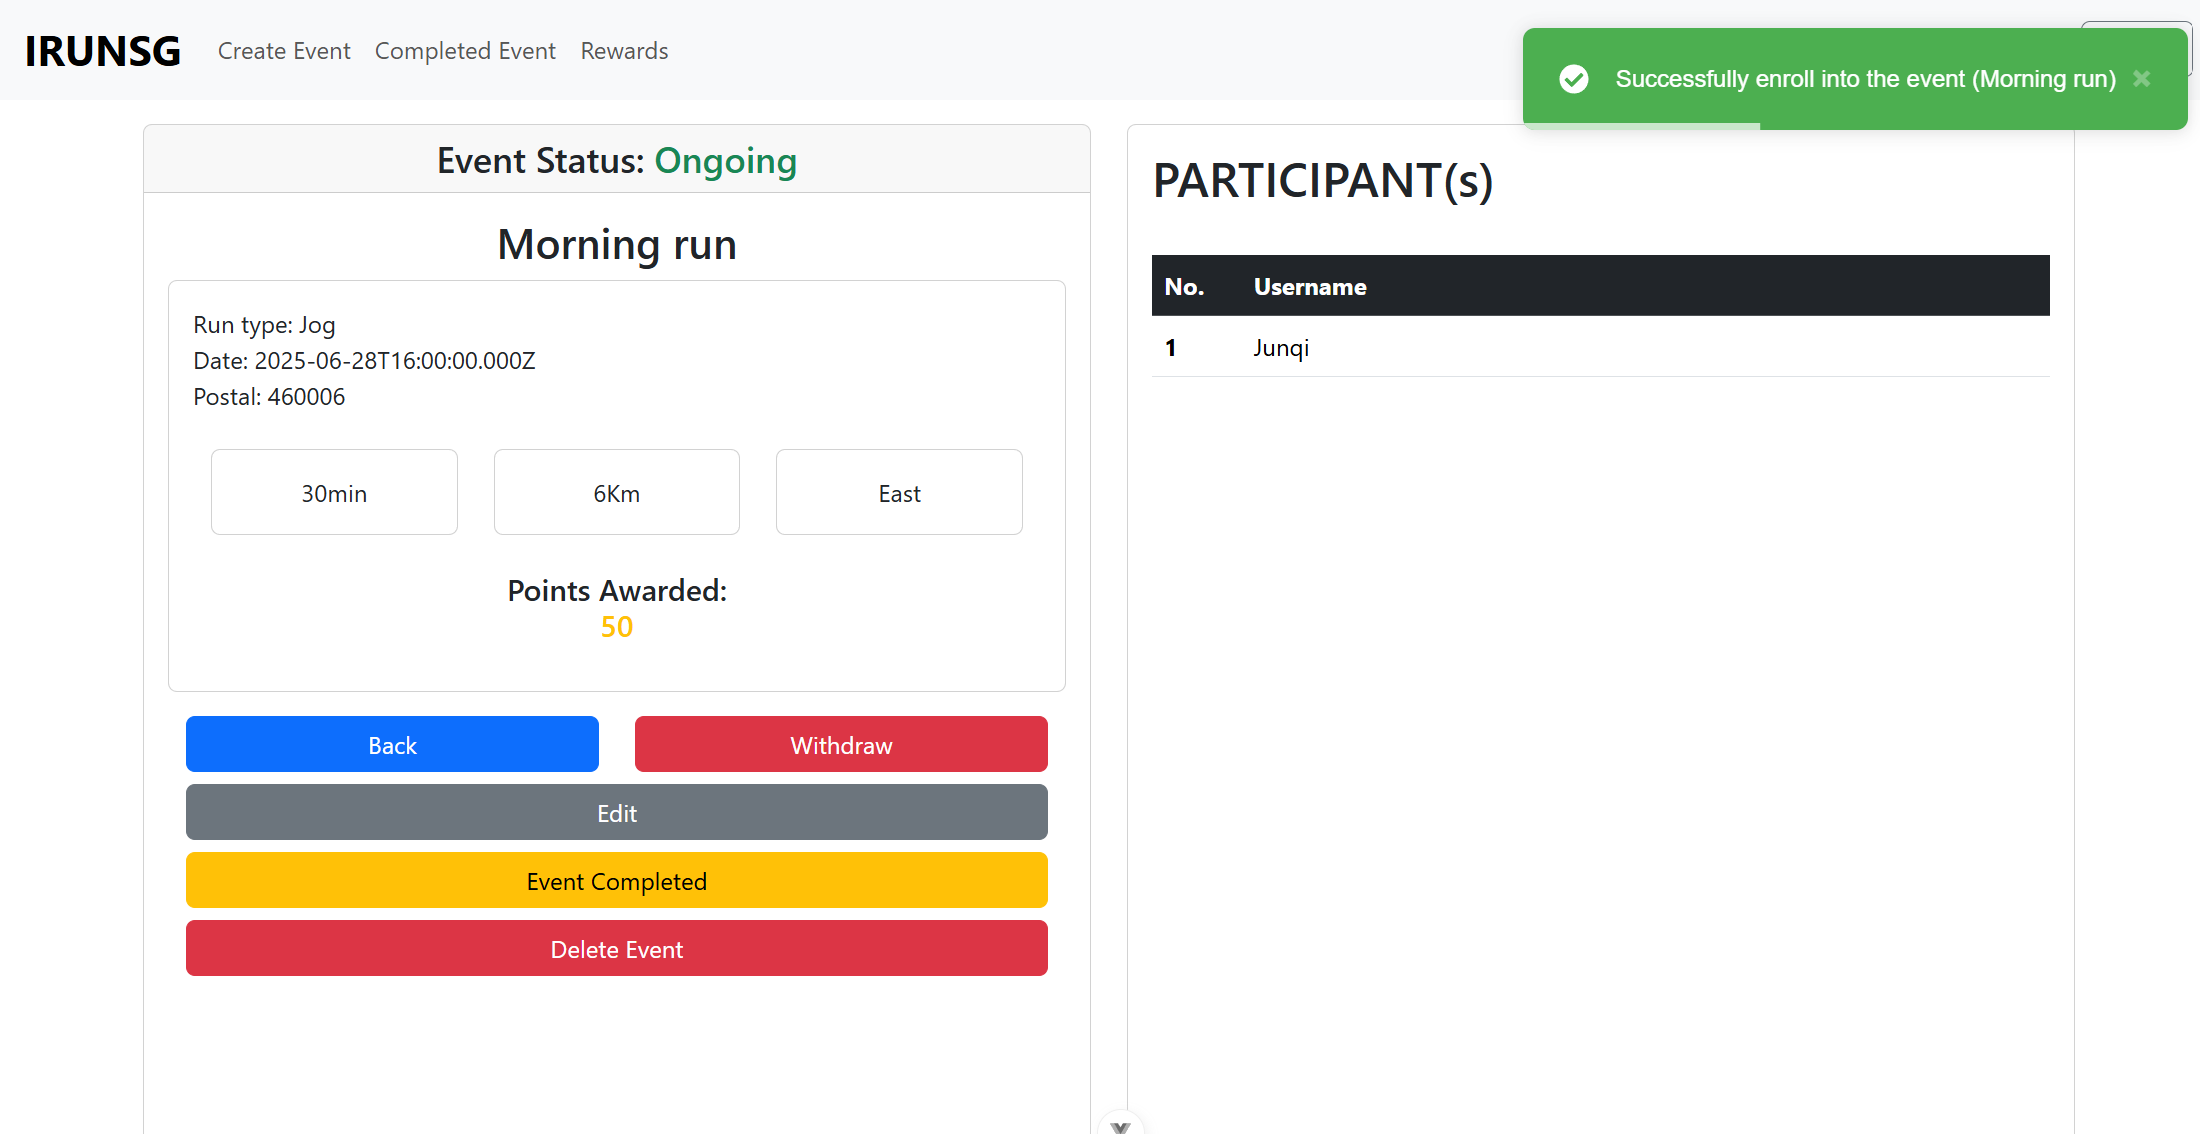
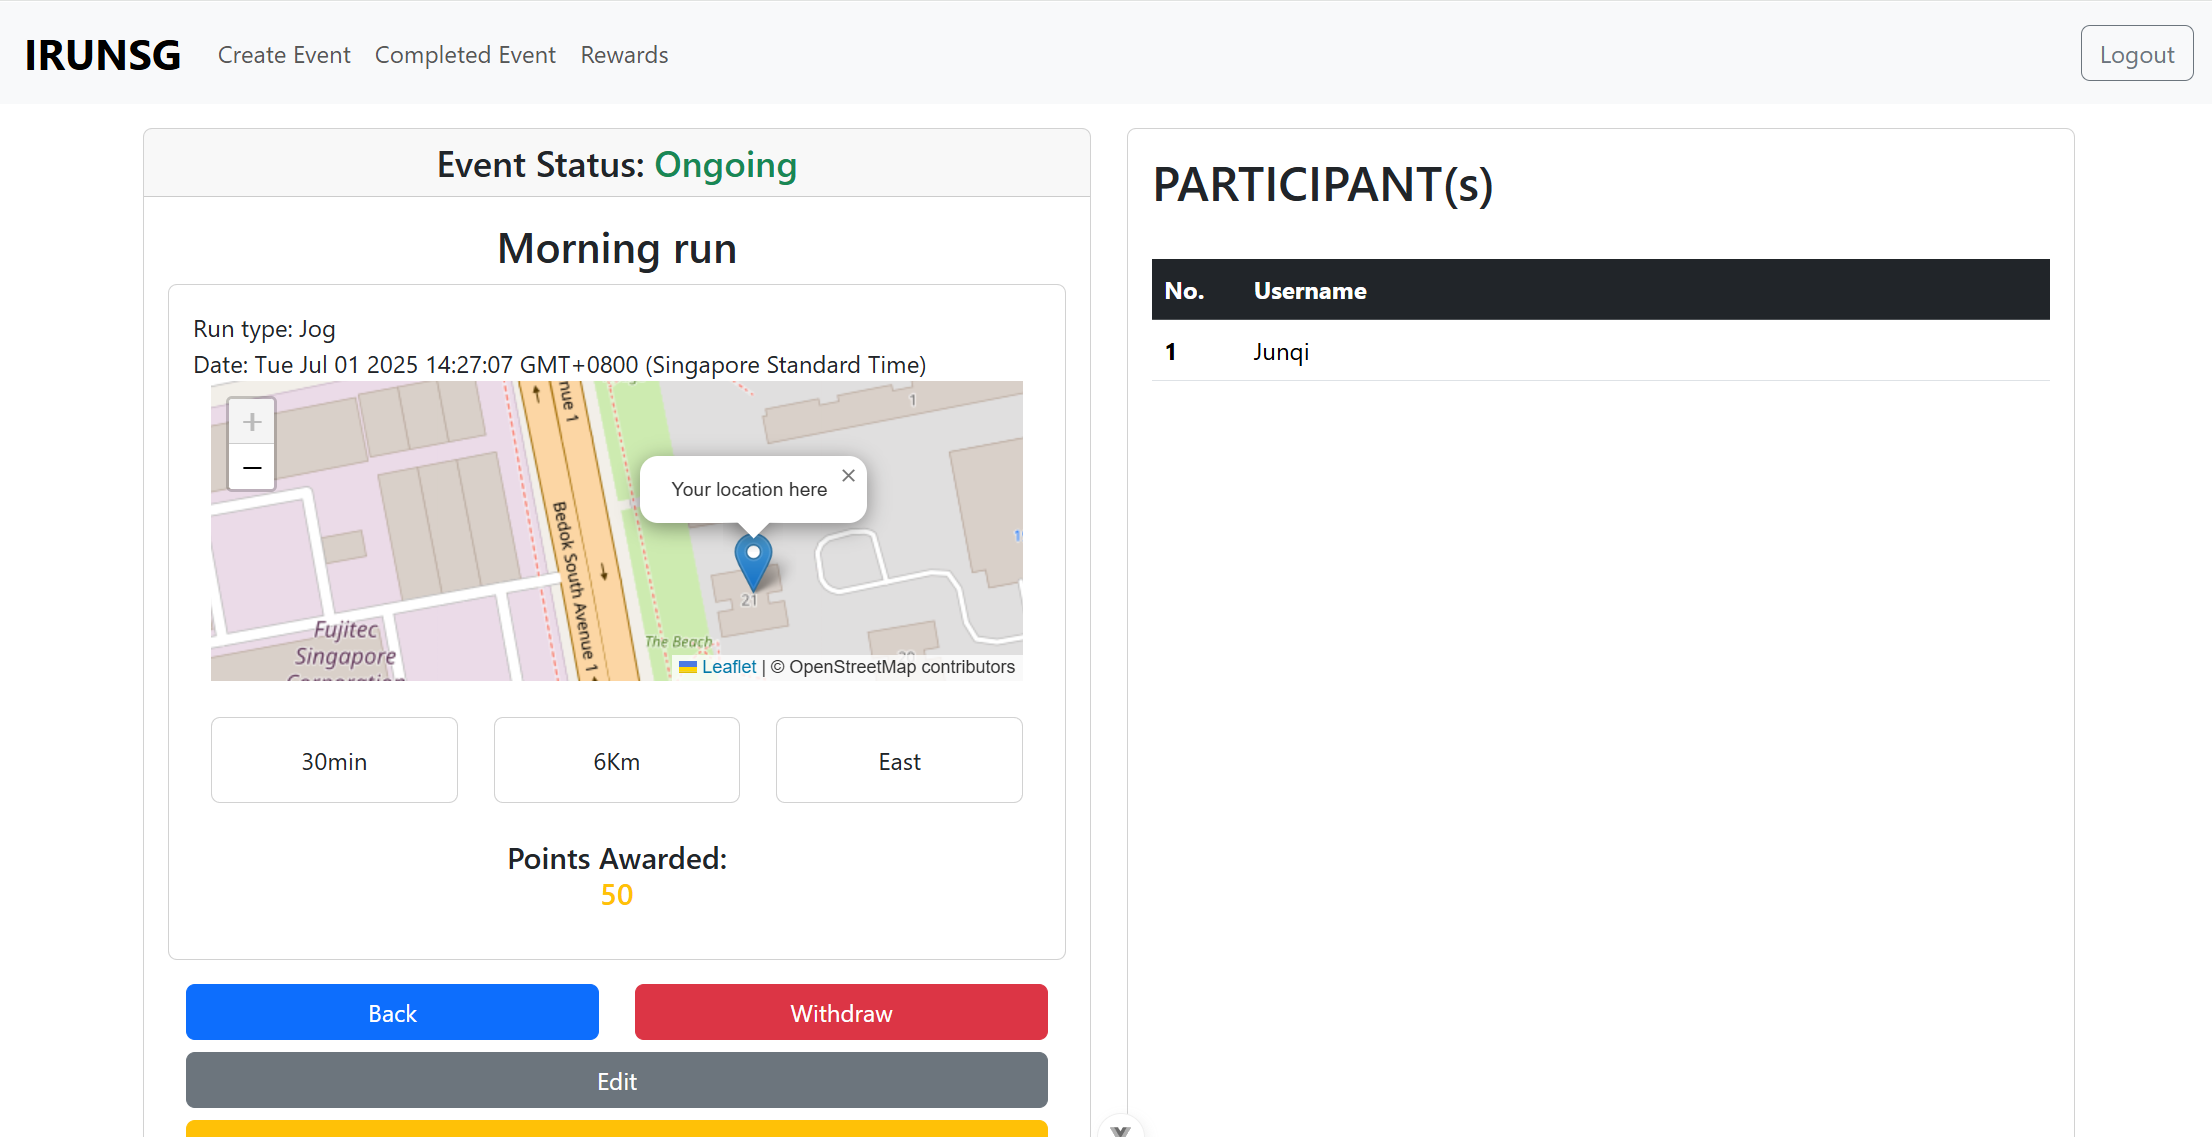
edited map and readme

diff --git a/client/src/components/ViewEvent.vue b/client/src/components/ViewEvent.vue
@@ -19,7 +19,7 @@
                                 <label>Date: {{ Date(event.date) }}</label>
                                 <br />
                                  <div class="container">
-                                    <div id="map" style="height: 400px; width: 100%;"></div>
+                                    <div id="map" style="height: 200px; width: 100%;"></div>
                                 </div>
                                 <br />
                                 <div class="container ">

diff --git a/README.md b/README.md
@@ -1,6 +1,6 @@
 # IRUNSG 🏃
 
-progress - currently 80% done (left displaying minimap using onemap and redemption of rewards via email api)
+progress - currently 80% done (left redemption of rewards via email api)
 
 **IRUNSG** is a full-stack web application built with **Vue.js**, **Express**, and **MongoDB**, designed to bring runners together to discover, organize, and join running events. The platform fosters **community, cohesion, and love for the sport** while offering a reward system that encourages participation.
 
